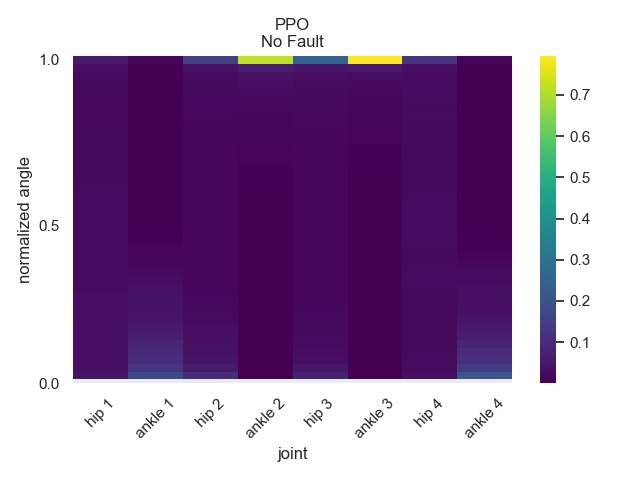
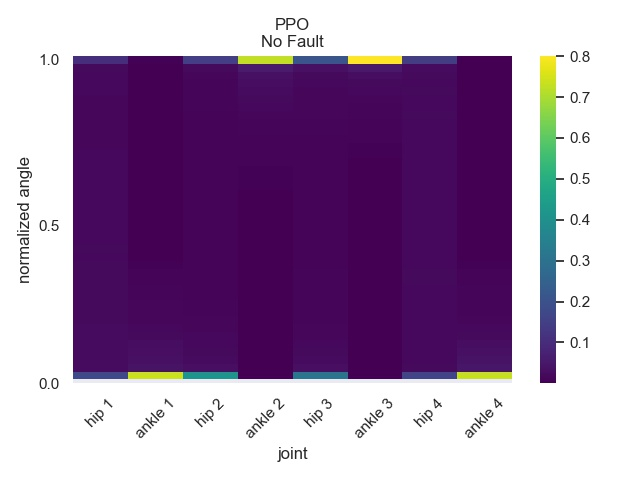
updated histogram

diff --git a/plot/histogram/histogram.py b/plot/histogram/histogram.py
@@ -216,6 +216,8 @@ def plot_ant_heatmap(ranges):
 
         normalized = (data - min) / (max - min)
 
+        normalized = np.clip(normalized, 0, 1)
+
         ant_histogram_data_normalized.append(normalized)
 
     ant_histogram_count_data = []
@@ -633,6 +635,8 @@ def plot_fetchreach_heatmap(ranges):
 
         normalized = (data - min) / (max - min)
 
+        normalized = np.clip(normalized, 0, 1)
+
         fetchreach_histogram_data_normalized.append(normalized)
 
     fetchreach_histogram_count_data = []
@@ -1003,8 +1007,8 @@ if __name__ == "__main__":
 
     # PPO
 
-    # file = "/media/sschoepp/easystore/shared/ant/normal/PPOv2_Ant-v2:600000000_lr:0.000123_lrd:True_slrd:0.25_g:0.9839_ns:2471_mbs:1024_epo:5_eps:0.3_c1:1.0_c2:0.0019_cvl:False_mgn:0.5_gae:True_lam:0.911_hd:64_lstd:0.0_tef:3000000_ee:10_tmsf:50000000_d:cpu_ps:True_pss:33_resumed"
-    # draw_histogram()
+    file = "/media/sschoepp/easystore/shared/ant/normal/PPOv2_Ant-v2:600000000_lr:0.000123_lrd:True_slrd:0.25_g:0.9839_ns:2471_mbs:1024_epo:5_eps:0.3_c1:1.0_c2:0.0019_cvl:False_mgn:0.5_gae:True_lam:0.911_hd:64_lstd:0.0_tef:3000000_ee:10_tmsf:50000000_d:cpu_ps:True_pss:33_resumed"
+    draw_histogram()
 
     # SAC
 
@@ -1139,8 +1143,8 @@ if __name__ == "__main__":
 
     # SAC v0  # todo tomorrow
 
-    file = "/media/sschoepp/easystore/shared/fetchreach/normal/SACv2_FetchReachEnv-v0:2000000_g:0.8097_t:0.0721_a:0.2_lr:0.001738_hd:256_rbs:10000_bs:512_mups:1_tui:1_tef:10000_ee:10_tmsf:20000_a:True_d:cuda_ps:True_pss:21"
-    draw_histogram()
+    # file = "/media/sschoepp/easystore/shared/fetchreach/normal/SACv2_FetchReachEnv-v0:2000000_g:0.8097_t:0.0721_a:0.2_lr:0.001738_hd:256_rbs:10000_bs:512_mups:1_tui:1_tef:10000_ee:10_tmsf:20000_a:True_d:cuda_ps:True_pss:21"
+    # draw_histogram()
 
     # SAC v0GE  # todo
 
